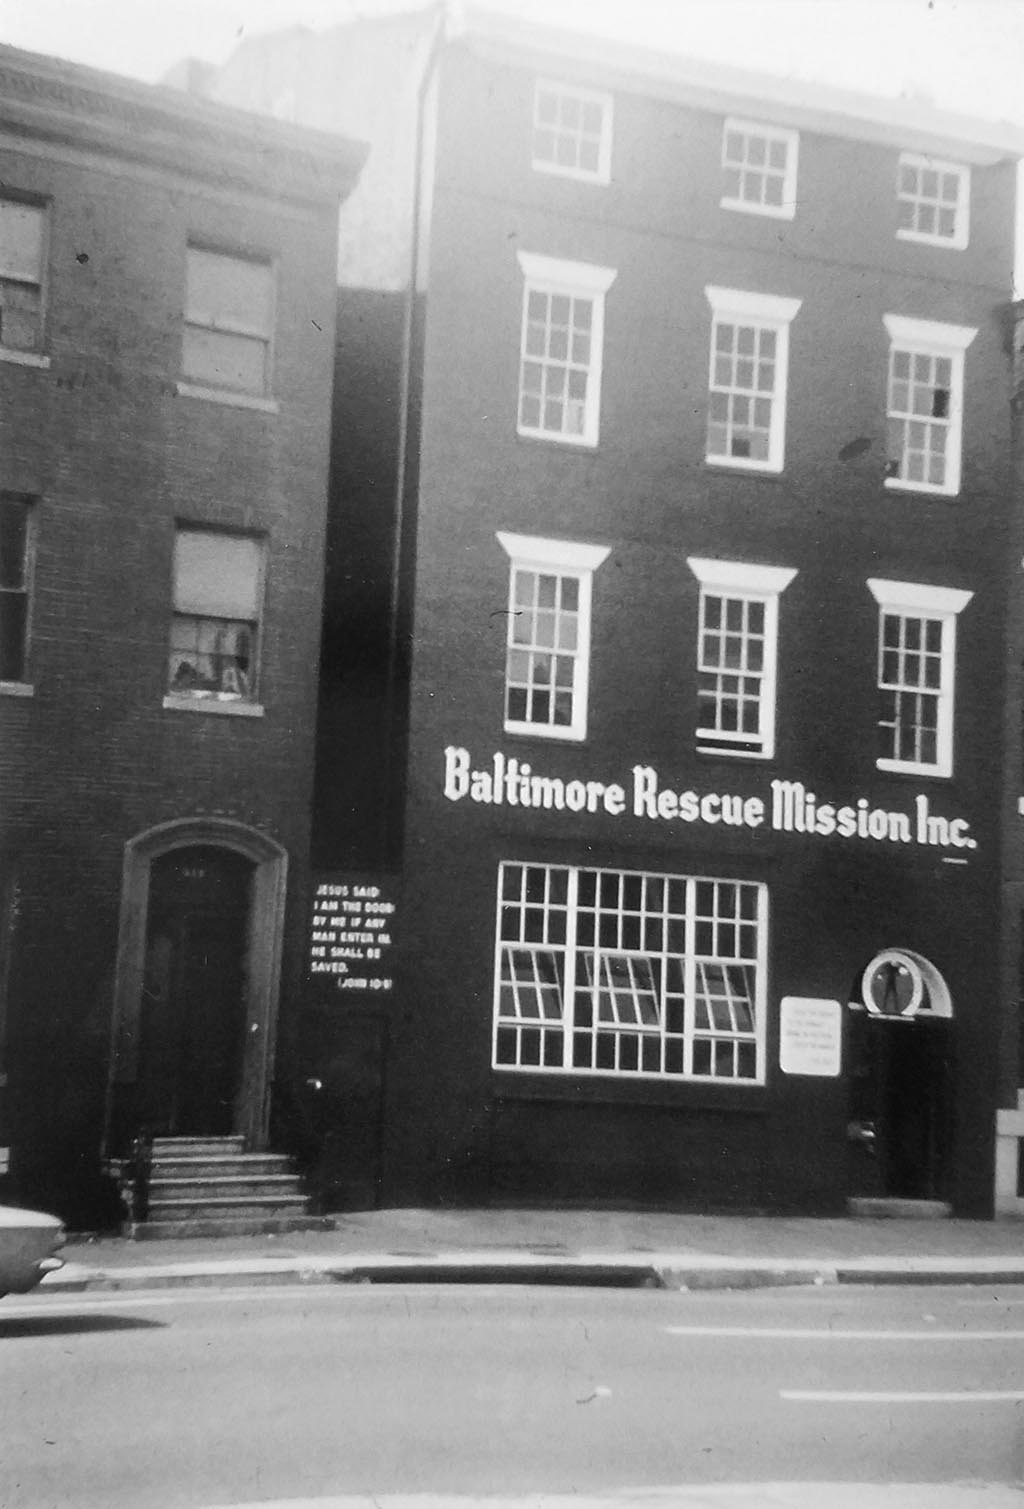
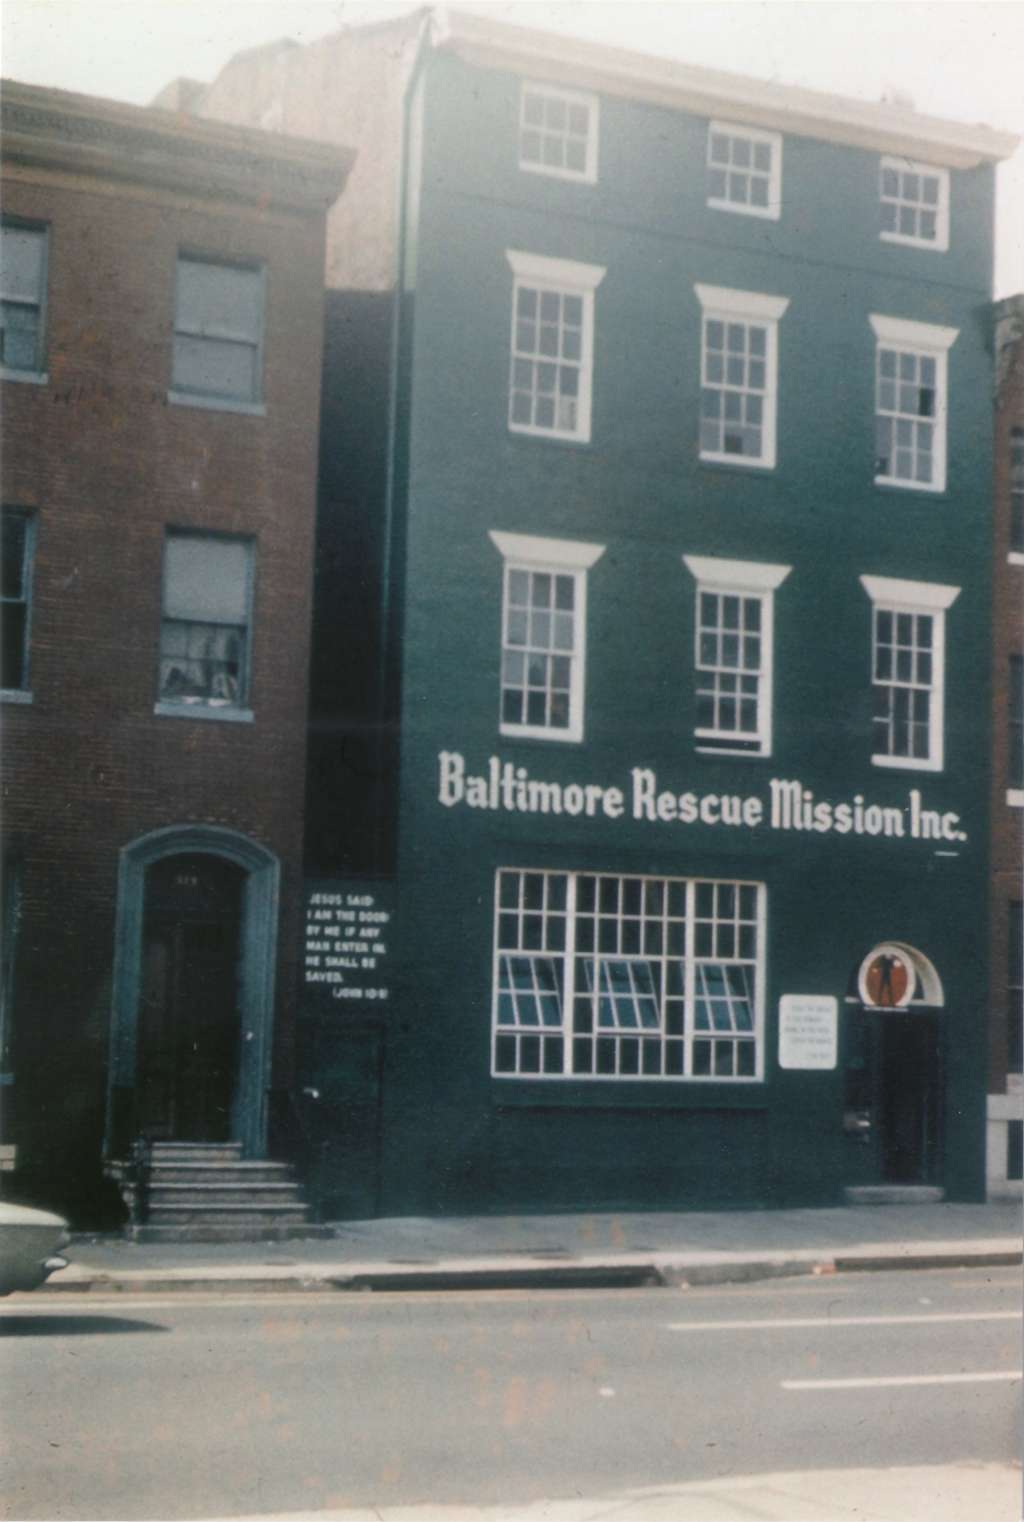
Photo updates to history page and Karis page
Updated the photos on the history page to use colored versions, as well as updating the image on the Karis Home page for clarity.

diff --git a/history.md b/history.md
@@ -56,7 +56,7 @@ permalink: mission/history
 
         <div>
           <img src="{{ "/img/history/06.jpg" | relative_url }}" alt="Raleigh and Pat Holt">
-          <p>Raleigh and Pat Holt.</p>
+          <p>Raleigh and Pat Holt</p>
         </div>
 
         <div>
@@ -70,13 +70,18 @@ permalink: mission/history
         </div>
 
         <div>
-          <img src="{{ "/img/history/09.jpg" | relative_url }}" alt="The Karis home building, prior to renovation">
+          <img src="{{ "/img/headers/karis-home.jpg" | relative_url }}" alt="The Karis home building, prior to renovation">
           <p>The completed Karis Home, "Grace Home", for women and children.</p>
         </div>
 
         <div>
           <img src="{{ "/img/history/10.jpg" | relative_url }}" alt="Pastor Chuck and Janna Buettner">
-          <p>Pastor Chuck and Janna Buettner.</p>
+          <p>Pastor Chuck and Janna Buettner</p>
+        </div>
+
+        <div>
+          <img src="{{ "/img/slideshow/homepage-hero-02.jpg" | relative_url }}" alt="Pastor Chuck and Janna Buettner">
+          <p>The Baltimore Rescue Mission and Karis Home</p>
         </div>
       </div>
     </section>
